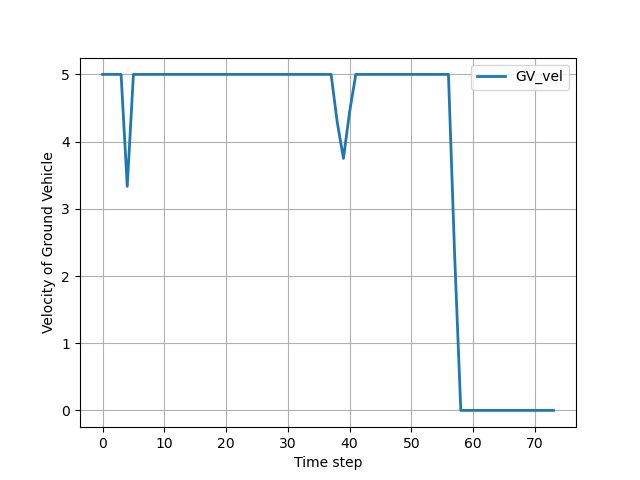
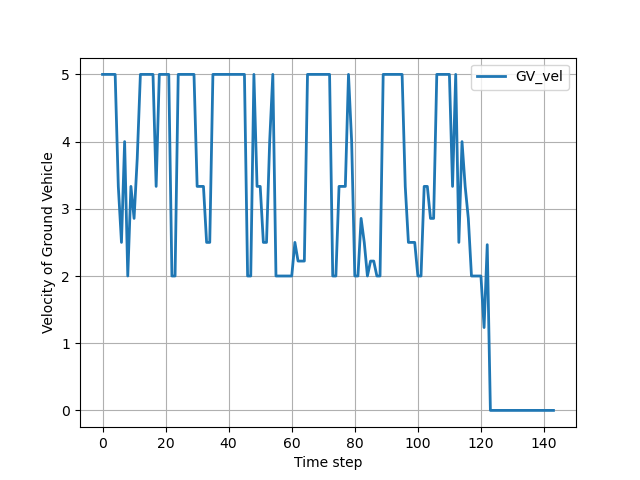
different types of trajectory

diff --git a/plot.py b/plot.py
@@ -7,19 +7,19 @@ from mpl_toolkits.mplot3d import Axes3D
 colors = ['purple', 'orange', 'cyan']
 
 class TrajectoryPlotter:
-    def __init__(self, trajectory, drones_info, task_list, start, goal, finished_task):
-        self.trajectory = np.array(trajectory)
+    def __init__(self, robot_state, drones_info, task_list, start, goals, finished_task):
+        self.robot_state = np.array(robot_state)
         self.drones_info = drones_info
         self.task_list = task_list
         self.start = start
-        self.goal = goal
+        self.goals = np.array(goals)
         self.finished = finished_task
 
         self.fig = plt.figure(1)
         self.ax = self.fig.add_subplot(111, projection='3d')
         self.line, = self.ax.plot([], [], [], 'b-', label='Robot Trajectory')
         self.start_marker, = self.ax.plot([], [], [], 'bo', label='Start')
-        self.goal_marker, = self.ax.plot([], [], [], 'ro', label='Goal')
+        self.goals_scatter = self.ax.scatter([], [], [], c='r', marker='x', label='Goals', s=50)
         self.robot_circle, = self.ax.plot([], [], [], 'yo', label='Robot', markersize=15)
         self.robot_direction, = self.ax.plot([], [], [], 'r-')
         
@@ -30,8 +30,8 @@ class TrajectoryPlotter:
         self._init_plot()
 
     def _init_plot(self):
-        self.ax.set_xlim((min(self.trajectory[:, 0]) - 1, max(self.trajectory[:, 0]) + 1))
-        self.ax.set_ylim((min(self.trajectory[:, 1]) - 1, max(self.trajectory[:, 1]) + 1))
+        self.ax.set_xlim((min(self.robot_state[:, 0]) - 1, max(self.robot_state[:, 0]) + 1))
+        self.ax.set_ylim((min(self.robot_state[:, 1]) - 1, max(self.robot_state[:, 1]) + 1))
         self.ax.set_zlim(0, 30)
         self.ax.set_xlabel('X')
         self.ax.set_ylabel('Y')
@@ -43,25 +43,30 @@ class TrajectoryPlotter:
     def init(self):
         self.line.set_data_3d([], [], [])
         self.start_marker.set_data_3d([self.start[0]], [self.start[1]], [0])
-        self.goal_marker.set_data_3d([self.goal[0]], [self.goal[1]], [0])
         self.robot_circle.set_data_3d([self.start[0]], [self.start[1]], [0])
         self.robot_direction.set_data_3d([], [], [])
+
+        # Initialize goal points scatter plot
+        if len(self.goals) > 0:
+            self.goals_scatter._offsets3d = (self.goals[:, 0], self.goals[:, 1], self.goals[:, 2])
+        else:
+            self.goals_scatter._offsets3d = ([], [], [])
         
         self.task_scatter._offsets3d = ([], [], [])
         self.finished_scatter._offsets3d = ([], [], [])
         
-        return (self.line, self.start_marker, self.goal_marker, self.robot_circle, 
+        return (self.line, self.start_marker, self.goals_scatter, self.robot_circle, 
                 self.robot_direction, self.task_scatter, self.finished_scatter)
 
     def update_frame(self, frame):
-        self.line.set_data_3d(self.trajectory[:frame, 0], self.trajectory[:frame, 1], np.zeros(frame))
-        self.robot_circle.set_data_3d([self.trajectory[frame, 0]], [self.trajectory[frame, 1]], [0])
+        self.line.set_data_3d(self.robot_state[:frame, 0], self.robot_state[:frame, 1], np.zeros(frame))
+        self.robot_circle.set_data_3d([self.robot_state[frame, 0]], [self.robot_state[frame, 1]], [0])
 
         direction_length = 10.0
-        direction_x = self.trajectory[frame, 0] + direction_length * np.cos(self.start[2])
-        direction_y = self.trajectory[frame, 1] + direction_length * np.sin(self.start[2])
-        self.robot_direction.set_data_3d([self.trajectory[frame, 0], direction_x],
-                                         [self.trajectory[frame, 1], direction_y],
+        direction_x = self.robot_state[frame, 0] + direction_length * np.cos(self.robot_state[frame,3])
+        direction_y = self.robot_state[frame, 1] + direction_length * np.sin(self.robot_state[frame,3])
+        self.robot_direction.set_data_3d([self.robot_state[frame, 0], direction_x],
+                                         [self.robot_state[frame, 1], direction_y],
                                          [0, 0])
 
         # Update task scatter plot
@@ -86,11 +91,11 @@ class TrajectoryPlotter:
             else:
                 self.finished_scatter._offsets3d = ([], [], [])
 
-        return (self.line, self.start_marker, self.goal_marker, self.robot_circle, 
+        return (self.line, self.start_marker, self.goals_scatter, self.robot_circle, 
                 self.robot_direction, self.task_scatter, self.finished_scatter)
 
     def animate(self, filename='robot_trajectory.gif', fps=10):
-        ani = FuncAnimation(self.fig, self.update_frame, frames=len(self.trajectory), 
+        ani = FuncAnimation(self.fig, self.update_frame, frames=len(self.robot_state), 
                             init_func=self.init, blit=True, repeat=False)
         ani.save(filename, writer=PillowWriter(fps=fps))
         # plt.show()
@@ -117,12 +122,12 @@ class TrajectoryPlotter:
         ax.scatter(tasks_x, tasks_y, tasks_z, c='b', marker='o', label='Tasks')
 
         # Plot robot trajectory
-        robot_x, robot_y, robot_z = zip(*self.trajectory[:, :3])
+        robot_x, robot_y, robot_z = zip(*self.robot_state[:, :3])
         ax.plot(robot_x, robot_y, robot_z, c='r', linestyle='-', linewidth=2, label='Robot Trajectory')
 
         # Plot start and goal
         ax.scatter(*self.start[:3], c='green', marker='s', s=100, label='Start')
-        ax.scatter(*self.goal[:3], c='red', marker='s', s=100, label='Goal')
+        ax.scatter(self.goals[:,0],self.goals[:,1],self.goals[:,2], c='red', marker='x', s=50, label='Goals')
 
         for i, drone in enumerate(self.drones_info):
             drone_positions = drone["positions"]

diff --git a/robot.py b/robot.py
@@ -1,15 +1,13 @@
 import numpy as np
-import math
 
 from config import *
 from gradient_solver import *
 from tsp import tsp
-# from ORTools import *
 
 class DifferentialDriveRobot:
     def __init__(self, x, y, theta, vmax, sr):
 
-        # robot state
+        # robot position state
         self.x = x
         self.y = y
         self.z = 0
@@ -26,6 +24,7 @@ class DifferentialDriveRobot:
         # information in task: x, y, z, priority value, probability value
         self.task = np.empty((0, 4))
         self.finished_task = np.empty((0, 4))
+        self.missed_task = np.empty((0, 4))
 
         self.at_goal = False
 
@@ -54,7 +53,7 @@ class DifferentialDriveRobot:
         # based on robot.x, robot.y and robot.theta, gen a new task
 
         """PARAMETER: modify the number bellow to decide density of the tasks"""
-        if(np.random.rand()<0.7):
+        if(np.random.rand()<0.5):
             """
             The task position is randomly generated
             within the robot's sensing range and within
@@ -84,8 +83,8 @@ class DifferentialDriveRobot:
         if vel <= 0:
             vel = 0.0001
         
-        vx = -vel * math.sin(self.theta)
-        vy = vel * math.cos(self.theta)
+        vx = vel * np.cos(self.theta)
+        vy = vel * np.sin(self.theta)
 
         v = np.array([vx, vy, 0])
 
@@ -122,7 +121,7 @@ class DifferentialDriveRobot:
         traversable_time = uav_battery
         route = [[self.x, self.y, self.z]]
         pos_node = [0]                                   # save position of node in route
-        # current_node = route[-1]
+        
         current_node = np.array(route[-1])
 
         probot = np.array(self.get_position())    # position of robot when drone reach the last node
@@ -132,7 +131,7 @@ class DifferentialDriveRobot:
         avai_tasks = self.task
 
         # print('[LOG] planning for drone: number of task set', len(self.task), 'traversable time', traversable_time)
- 
+        """Plan a route for drone"""
         while traversable_time > 0 and len(avai_tasks) > 0:
             probot += np.array(vrobot)*ttime    # update position of robot when drone reach the last node
 
@@ -149,19 +148,17 @@ class DifferentialDriveRobot:
                 traversable_time -= ttravel
                 current_node = route[-1]
 
-                # self.finished_task = np.vstack([self.finished_task, self.task[pos]])
-                # self.task = np.delete(self.task, pos, axis=0)
                 avai_tasks = np.delete(avai_tasks,pos,axis=0)
             else:
                 break
         
-        # decide whether publish the route for drone or just wait for more tasks:
-        pr = np.array(route[-1])
-        cummdis = 0
+        """ decide whether publish the route for drone or just wait for more tasks """
+        cummdis = 0     # cummulative distance of the route but different with route length
         for i in range(1,len(route)):   # skip the first node cause it is the robot position
             cummdis += np.sign(self.task[pos_node[1]][3]) * np.linalg.norm(probot-route[i])
+            # cummdis += np.linalg.norm(probot-route[i])
         
-        if cummdis < (uav_max_time/(2*(len(route)-1)+1)):
+        if cummdis < (uav_max_time/(2*(len(route)-1)+1)) and not self.at_goal:
             return []
         else:
             # if the route is large enough, publish it by apply tsp optimize first
@@ -169,9 +166,10 @@ class DifferentialDriveRobot:
                 i_pos = pos_node[i]
                 self.finished_task = np.vstack([self.finished_task, self.task[i_pos]])
                 self.task = np.delete(self.task, i_pos, axis=0)
-            new_route, new_cost = tsp(route)
 
-        return new_route
+            route, new_cost = tsp(route)
+
+        return route
     
     def update_v_by_priority(self, v):
         if self.at_goal or len(self.task) == 0:
@@ -189,14 +187,19 @@ class DifferentialDriveRobot:
         return vnew
 
 
-    def calculate_control(self, goal, Kp_linear, Kp_angular):
+    def calculate_control(self, current_goal_index, goals, Kp_linear, Kp_angular):
         # Calculate the error in position
+        goal = goals[current_goal_index]
+
         dx = goal[0] - self.x
         dy = goal[1] - self.y
         distance_error = np.sqrt(dx**2 + dy**2)
 
-        if distance_error <= epsilon:
-            self.at_goal = True
+        if distance_error <= epsilon and self.at_goal == False:
+            if current_goal_index < len(goals)-1:
+                current_goal_index += 1
+            else:
+                self.at_goal = True
         
         # Calculate the desired orientation
         desired_theta = np.arctan2(dy, dx)
@@ -215,9 +218,9 @@ class DifferentialDriveRobot:
             v = self.vmax
 
         if self.at_goal:
-            return 0, 0
+            return 0, 0, current_goal_index
         
-        return v, omega
+        return v, omega, current_goal_index
 
 def find_best_node(current_node, traversable_time, task_set, robot_position, robot_vel, uav_vel):
 

diff --git a/main.py b/main.py
@@ -22,6 +22,7 @@ from robot import *
 from drone import *
 from config import *
 from plot import *
+from robot_trajectory import *
 
 # define the robot
 robot = DifferentialDriveRobot(start[0], start[1], start[2], vmax=robot_vmax, sr=robot_sensing_range)
@@ -32,10 +33,10 @@ drone = [Drone(i, init_pos=[0, 0, 0], average_vel=uav_avg_vel, battery_limit=uav
 # some metrics for evaluation
 total_route = 0     # total number of route assign for drones 
 
-def simulate_robot(start, goal, Kp_linear, Kp_angular, dt, max_steps):
+def simulate_robot(start, goals, Kp_linear, Kp_angular, dt, max_steps):
     
     # saving information for plot
-    trajectory = [(robot.x, robot.y, 0)]
+    robot_state = [(robot.x, robot.y, 0, robot.theta)]
     robot_vel = []
     drones_info = [
     {"positions": [(0, 0, 0)], "battery": [uav_max_time]},  # Drone 0
@@ -49,11 +50,12 @@ def simulate_robot(start, goal, Kp_linear, Kp_angular, dt, max_steps):
     # working metrics
     env = Environment()
     count_for_break = 0
+    current_goal_in = 0     # index of current target on list of target
 
     """Loop of system operation"""
     for _i in range(max_steps):
         # print('[LOG] STEP', _i, 'car position [%s,%s,%s]' %(robot.x,robot.y,robot.z))
-        v, omega = robot.calculate_control(goal, Kp_linear, Kp_angular)
+        v, omega, current_goal_in = robot.calculate_control(current_goal_in, goals, Kp_linear, Kp_angular)
 
         if _i > 1:
             robot.calculate_priority()
@@ -101,7 +103,7 @@ def simulate_robot(start, goal, Kp_linear, Kp_angular, dt, max_steps):
                         _drone.set_route(plan)
                         global total_route
                         total_route += 1
-                        print("[LOG] New plan loaded on the drone", _drone.index, '. Number of task', len(plan))
+                        print("[LOG] New plan loaded on the drone", _drone.index, '. Number of task', len(plan)-1)
                         _drone.state = DroneState.MOVING
 
             # when drone state is moving
@@ -110,21 +112,24 @@ def simulate_robot(start, goal, Kp_linear, Kp_angular, dt, max_steps):
                 if current_target is not None:
                     print('[LOG] drone', _drone.index, 'is moving to [%s, %s, %s]' % (current_target[0], current_target[1], current_target[2]))
         
-        trajectory.append((robot.x, robot.y, 0))
+        robot_state.append((robot.x, robot.y, 0, robot.theta))
         robot_vel.append(v)
         task_list.append(robot.task)
         finished_task.append(robot.finished_task)
         
-        if ((robot.at_goal and sum(1 for _drone in drone if _drone.state==DroneState.WAITING or _drone.state==DroneState.OUT_OF_CONTROL)==3)) or sum(1 for _drone in drone if _drone.state == DroneState.OUT_OF_CONTROL)==3:
+        if ((robot.at_goal and sum(1 for _drone in drone if _drone.state==DroneState.WAITING or _drone.state==DroneState.OUT_OF_CONTROL)==3)):
             count_for_break += 1
-            if count_for_break > 3:
+            if count_for_break > 5:
                 break
 
-    return trajectory, robot_vel, drones_info, task_list, finished_task
+    return robot_state, robot_vel, drones_info, task_list, finished_task
 
 def main():
+
+    goals = np.array(straight_line())
+
     # Simulate the robot
-    trajectory, vr, drones_info, task_list, finished_task = simulate_robot(start, goal, Kp_linear, Kp_angular, dt, max_steps)
+    robot_state, vr, drones_info, task_list, finished_task = simulate_robot(start, goals, Kp_linear, Kp_angular, dt, max_steps)
 
     print('[FINISH LOG] Finished the simulation, number of unassigned task', len(robot.task), 'number of assigned task', len(robot.finished_task), 'number of crashed drone', sum(1 for _drone in drone if _drone.state == DroneState.OUT_OF_CONTROL))
     print('Number of route for drones', total_route)
@@ -132,7 +137,7 @@ def main():
     for _drone in drone:
         print('Drone', _drone.index, 'state', _drone.state)
     # Plotting the trajectory as an animation using the TrajectoryPlotter class
-    plotter = TrajectoryPlotter(trajectory, drones_info, task_list, start, goal, finished_task)
+    plotter = TrajectoryPlotter(robot_state, drones_info, task_list, start, goals, finished_task)
     plotter.plot_drone_lines()
     plotter.plot_robot_vel(vr)
     # plotter.plot_battery_info()

diff --git a/config.py b/config.py
@@ -15,20 +15,19 @@ class Environment:
         self.zmin = Z_MIN
 
 # Parameters
-start = (0, 0, np.pi/4)     # Starting position (x, y, theta)
-goal = (200, 200)             # Goal position (x, y)
+start = (0, 0, 0)     # Starting position (x, y, theta)
 
 Kp_linear = 1.0             # Proportional gain for linear velocity
-Kp_angular = 2.0            # Proportional gain for angular velocity
+Kp_angular = 1.0            # Proportional gain for angular velocity
 
 dt = 1                      # Time step
 
-max_steps = 200              # Maximum number of simulation steps
+max_steps = 400              # Maximum number of simulation steps
 
 robot_radius = 0.2          # Radius of the robot circle
 robot_sensing_range = 20     # 
 robot_vmax = 5
-robot_vmin = 0.05
+robot_vmin = 2
 
 uav_max_time = 15          # maximum traveling distance of each uav
 # uav_min_range = 10           # minimum remaining battery that uav can consider taking new route

diff --git a/tsp.py b/tsp.py
@@ -20,10 +20,13 @@ def two_opt(route):
     for i in range(1, len(route) - 2):
         for j in range(i + 1, len(route) - 1):
             # Create a new route by reversing the order of nodes between i and j
-            new_route = route[:i] + route[i:j+1][::-1] + route[j+1:]
-            new_cost = calculate_total_distance(new_route)
+            # new_cost = calculate_total_distance(new_route)
+            new_cost = best_cost+distance(route[i-1],route[j])+distance(route[i],route[j+1])-distance(route[i-1],route[i])-distance(route[j],route[j+1])
             
             if new_cost < best_cost:
+                # remove edges (i-1,i) and (j,j+1), add edges (i-1,j) and (i,j+1)
+                new_route = route[:i] + route[i:j+1][::-1] + route[j+1:]
+
                 best_route = new_route
                 best_cost = new_cost
                 # improved = True

diff --git a/robot_trajectory.py b/robot_trajectory.py
@@ -1,0 +1,32 @@
+import numpy as np
+from config import *
+
+
+def straight_line():
+    goal = [[400, 200,0]]             # Goal position (x, y)
+    return goal
+
+def circular_path(n=10, r=70, center=(0, 0, 0)):
+    """
+    Generate n points on a circular path.
+    n: Number of points to generate.
+    r: Radius of the circle (default is 40).
+    center: Center of the circle as a tuple (x_c, y_c, z_c).
+    """
+    x_c, y_c, z_c = center
+    points = []
+
+    # Calculate angles for n points
+    angles = np.linspace(0, 2 * np.pi, n, endpoint=False)
+
+    # Generate points on the circle
+    for angle in angles:
+        x = r * np.cos(angle) + x_c
+        y = r * np.sin(angle) + y_c
+        z = z_c
+        points.append([x, y, z])
+
+    return np.array(points)
+
+def curve_line():
+    pass
